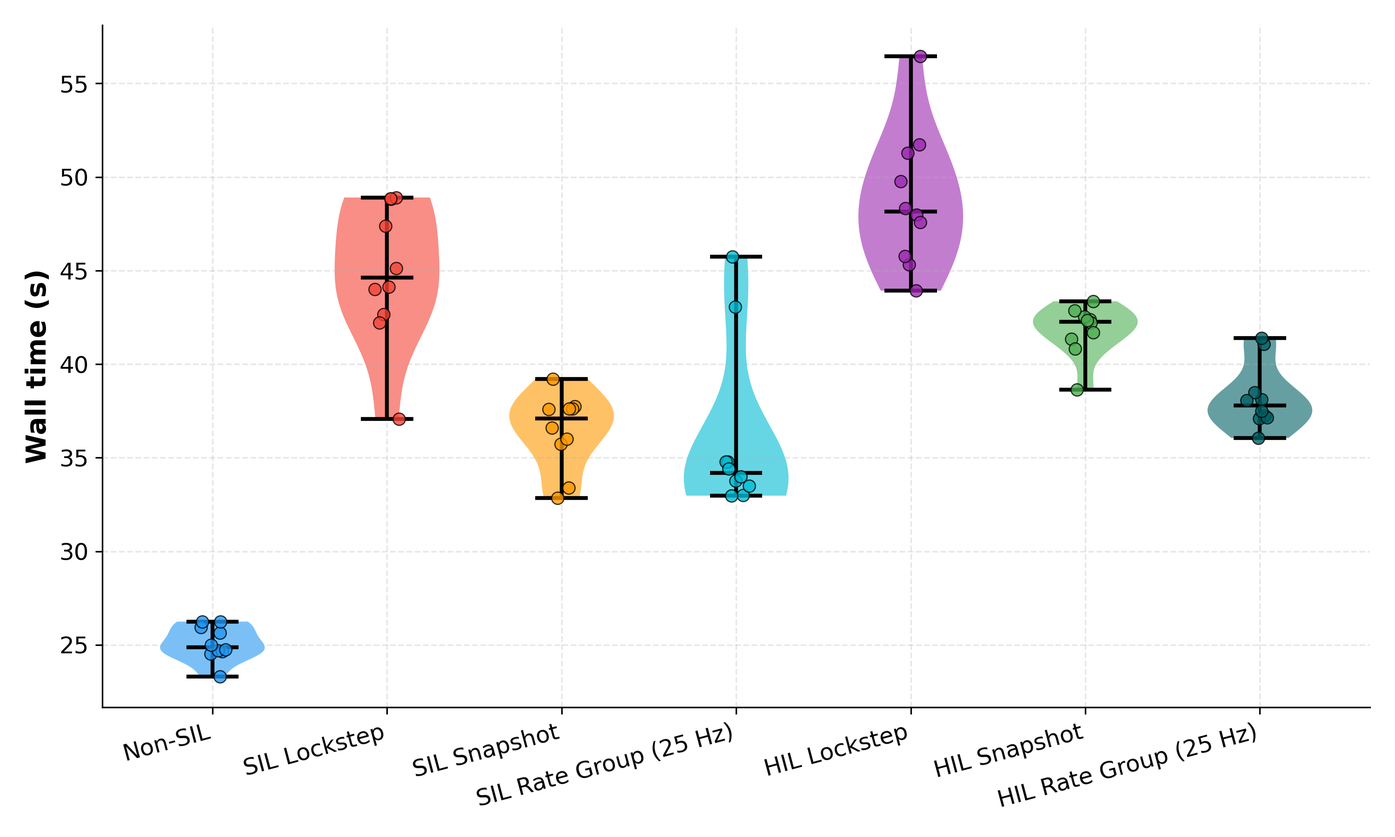
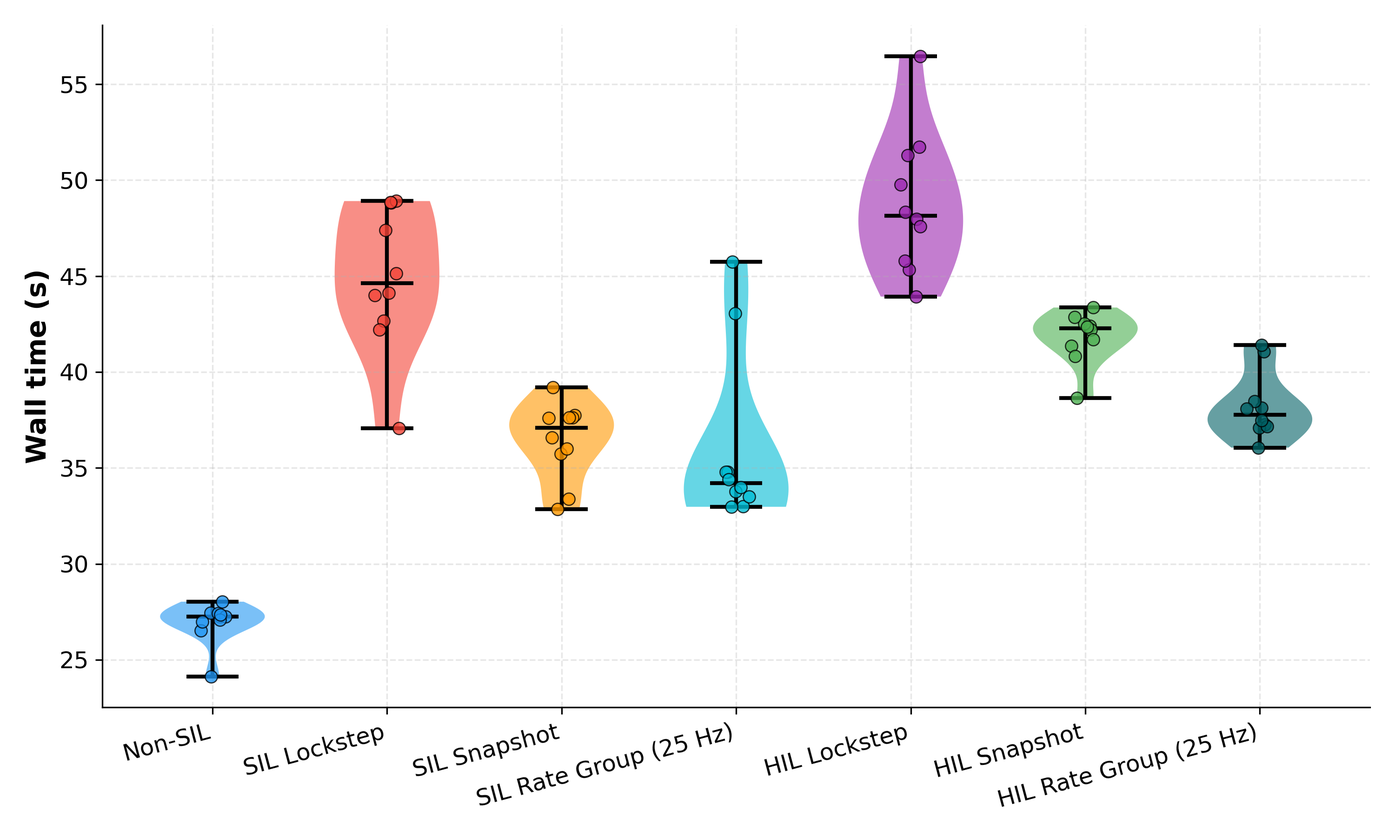
Updates from Overleaf

diff --git a/sections/evaluation.tex b/sections/evaluation.tex
@@ -1,25 +1,4 @@
 \section{Results}\label{s:evaluation}
-\begin{table*}[t]
-\centering
-\caption{Mean $\pm$ one standard deviation over 10 runs per configuration. Apogee time is within 0.04\,s of the baseline (23.49\,s) in every configuration. Rate Group runs at 25\,Hz. Deployment times are simulation time.}
-\label{tab:summary}
-\small
-\begin{tabular}{lrrrr}
-\toprule
-\textbf{Mode} & \textbf{Apogee (m)} & \textbf{Wall time (s)} & \textbf{Drogue (s)} & \textbf{Main (s)} \\
-\midrule
-Non-SIL (baseline) & 3061.94 $\pm$ 0.00 & 27.0 $\pm$ 1.4 & 25.00 $\pm$ 0.00 & 44.60 $\pm$ 0.00 \\
-\midrule
-SIL Lockstep   & 3061.86 $\pm$ 0.04 & 44.9 $\pm$ 3.8 & 25.00 $\pm$ 0.00 & 44.60 $\pm$ 0.00 \\
-SIL Snapshot   & 3065.98 $\pm$ 0.03 & 36.4 $\pm$ 2.0 & 25.00 $\pm$ 0.01 & 44.60 $\pm$ 0.00 \\
-SIL Rate Group & 3065.78 $\pm$ 0.19 & 36.0 $\pm$ 4.5 & 24.84 $\pm$ 0.04 & 45.18 $\pm$ 0.25 \\
-\midrule
-HIL Lockstep   & 3061.87 $\pm$ 0.03 & 48.8 $\pm$ 3.7 & 25.01 $\pm$ 0.00 & 44.64 $\pm$ 0.01 \\
-HIL Snapshot   & 3066.00 $\pm$ 0.06 & 41.8 $\pm$ 1.3 & 25.01 $\pm$ 0.00 & 44.64 $\pm$ 0.01 \\
-HIL Rate Group & 3069.33 $\pm$ 7.46 & 38.2 $\pm$ 1.7 & 24.91 $\pm$ 0.07 & 45.09 $\pm$ 0.28 \\
-\bottomrule
-\end{tabular}
-\end{table*}
 
 \subsection{Coupling Strategies and the One-Step Delay}\label{coupling-results}
 In Experiment~1, Table~\ref{tab:summary} compares each configuration with the standalone baseline apogee of 3061.94\,m. The baseline lands above the 3000\,m target because the PI gains are untuned, as tuning is out of scope (Section~\ref{discussion}). This offset is common to all configurations.
@@ -28,23 +7,25 @@ In Experiment~1, Table~\ref{tab:summary} compares each configuration with the st
 
 Snapshot overshoots by $+4.04$\,m in SIL and $+4.06$\,m in HIL. The overshoot is structural. At callback $n$, the Orchestrator sends the packet and returns the actuation computed at callback $n-1$, without waiting for the FSW. The response to callback $n$ is applied only at $n+1$, so actuation is always one step behind the sensor reading that triggered it. The predicted apogee and the air brake level lag the true state, and the PI controller under-corrects during the coast. The delay equals one callback step, 0.1\,s at 10\,Hz, so the overshoot depends on the callback rate. Section~\ref{callback-sample-rate} shows that it shrinks as the controller callback rate rises.
 
-Rate Group at 25\,Hz overshoots by $+3.84$\,m in SIL and $+7.39$\,m in HIL. The SIL result resembles Snapshot, since both are non-blocking. The variance is higher because the FSW clock is independent of RocketPy's callback, so the buffer may hold an output computed from an older reading. In HIL the standard deviation reaches 7.46\,m against 0.19\,m in SIL, which we attribute to clock mismatch compounding with the Pi's slower CPU and the Ethernet latency. These results support $H_1$: Lockstep shows negligible overshoot, while both non-blocking strategies delay actuation and overshoot consistently in SIL and HIL.
-
-All six differences from the baseline are statistically significant, with $p\le0.012$. The mean apogee error of every strategy stays below the 12\,m threshold in SIL and HIL. The mean hides the spread for HIL Rate Group: with a standard deviation of 7.46\,m over 10 runs, individual runs may exceed 12\,m, so the threshold is met on average, not guaranteed per run.
-
-\emph{Deployment timing.} Lockstep and Snapshot deploy the drogue at $t\approx25.00$\,s and the main parachute at $t\approx44.60$\,s in both SIL and HIL, matching the baseline. Rate Group deploys the drogue earlier (24.84\,s in SIL, 24.91\,s in HIL) and the main parachute later (45.18\,s and 45.09\,s), with standard deviations up to 0.28\,s, consistent with its timing non-determinism.
-
-\emph{Wall-clock time.} Every strategy adds overhead to the 27.0\,s baseline (Fig.~\ref{fig:wall_time_violin}). Lockstep is slowest (44.9\,s SIL, 48.8\,s HIL) because it blocks at every callback. Snapshot (36.4\,s, 41.8\,s) and Rate Group (36.0\,s, 38.2\,s) never block. HIL is slower than SIL for every strategy, from the Ethernet round trip and the Pi's slower CPU, which supports $H_2$. For Rate Group, however, the 2.2\,s gap is smaller than the 4.5\,s run-to-run spread in SIL. In the individual runs, the SIL Rate Group spread comes from two slow runs above 43\,s, while the others sit near 33--35\,s.
+Rate Group at 25\,Hz overshoots by $+3.84$\,m in SIL and $+7.39$\,m in HIL. The SIL result resembles Snapshot, since both are non-blocking. The variance is higher because the FSW clock is independent of RocketPy's callback so the buffer may hold an output computed from an older reading. In HIL, the standard deviation reaches 7.46\,m against 0.19\,m in SIL, which we attribute to clock mismatch compounded by the Pi's slower CPU and Ethernet latency. These results support $H_1$: Lockstep shows negligible overshoot, while both non-blocking strategies delay actuation and overshoot consistently in SIL and HIL.
 
 \begin{figure}[t]
 \centering
 \includegraphics[width=0.92\columnwidth]{figures/results/wall_time_violin.png}
-\caption{Wall-clock time per run for each configuration; dots are individual runs.}
+\caption{Wall-clock time per run for each configuration; dots are individual runs. Non-SIL denotes the standalone RocketPy baseline.}
 \label{fig:wall_time_violin}
 \end{figure}
 
+All six differences from the baseline are statistically significant, with $p\le0.012$. The mean apogee error of every strategy stays below the 12\,m threshold in SIL and HIL. The mean hides the spread for HIL Rate Group: with a standard deviation of 7.46\,m over 10 runs, individual runs may exceed 12\,m, so the threshold is met on average, not guaranteed per run.
+
+\emph{Deployment timing.} Lockstep and Snapshot deploy the drogue parachute at $t\approx25.00$\,s and the main parachute at $t\approx44.60$\,s in both SIL and HIL, matching the baseline. Rate Group deploys the drogue earlier (24.84\,s in SIL, 24.91\,s in HIL) and the main parachute later (45.18\,s and 45.09\,s), with standard deviations up to 0.28\,s, consistent with its timing non-determinism.
+
+\emph{Wall-clock time.} Every strategy adds overhead to the 26.9\,s baseline (Fig.~\ref{fig:wall_time_violin}). Lockstep is slowest (44.9\,s SIL, 48.8\,s HIL) because it blocks at every callback. Snapshot (36.4\,s, 41.8\,s) and Rate Group (36.0\,s, 38.2\,s) never block. HIL is slower than SIL for every strategy, from the Ethernet round trip and the Pi's slower CPU, which supports $H_2$. For Rate Group, however, the 2.2\,s gap is smaller than the 4.5\,s run-to-run spread in SIL. In the individual runs, the SIL Rate Group spread comes from two slow runs above 43\,s, while the others sit near 33--35\,s.
+
+
+
 \subsection{Rate Group Frequency Sweep}\label{freq-sweep}
-In Experiment~2, Figure~\ref{fig:rate-apogee-freq} shows mean apogee against tick frequency, SIL and HIL combined. At 1\,Hz the FSW works on stale data and updates the air brakes once per second, and apogee overshoots by 209.56\,m (3271.5\,$\pm$\,59.0\,m). A higher tick frequency gives the FSW fresher readings, so the lag shrinks and the error falls monotonically: 101.19\,m at 5\,Hz, 27.69\,m at 10\,Hz, 5.61\,m at 25\,Hz and 4.02\,m at 50\,Hz. Gains diminish beyond 25\,Hz, the rate we used in the strategy comparison. The tick timer runs on the wall clock, so these values describe our hosts (Section~\ref{discussion}).
+In Experiment~2, Figure~\ref{fig:rate-apogee-freq} shows mean apogee against tick frequency, SIL and HIL combined. At 1\,Hz, the FSW works on stale data and updates the air brakes once per second, and apogee overshoots by 209.56\,m (3271.5\,$\pm$\,59.0\,m). A higher tick frequency gives the FSW fresher readings, so the lag shrinks and the error falls monotonically: 101.19\,m at 5\,Hz, 27.69\,m at 10\,Hz, 5.61\,m at 25\,Hz and 4.02\,m at 50\,Hz. Gains diminish beyond 25\,Hz, the rate we used in the strategy comparison of Section~\ref{coupling-results}. The tick timer runs on the wall clock, so these values describe our hosts (Section~\ref{discussion}).
 
 \begin{figure}[t]
 \centering
@@ -54,7 +35,7 @@ In Experiment~2, Figure~\ref{fig:rate-apogee-freq} shows mean apogee against tic
 \end{figure}
 
 \subsection{Fault Injection}\label{fault-results}
-In Experiment~3, Figure~\ref{fig:fault_injection} shows all 20 runs, SIL and HIL. At $t=10$\,s the barometer freezes during the coast and the FSW's perceived altitude stays near 1995\,m, about 125\,m below the true altitude at that instant. We attribute that offset to the FSW converting pressure with the ISA model while the simulated atmosphere is not ISA. It does not affect recovery, which depends on pressure changes and not on absolute altitude, and the baseline uses the same conversion. The fallback logic detects the freeze at $t=11.5$\,s and switches to IMU-based detection. True apogee (3069\,m) occurs at $t=23.5$\,s. The drogue deploys at 23.60\,s in SIL and 23.61\,s in HIL, about 0.1\,s after apogee, and the main parachute at 43.60\,s in both, through the 20\,s timeout. This supports $H_3$: the FSW detected the fault and completed the recovery sequence in both SIL and HIL.
+In Experiment~3, Figure~\ref{fig:fault_injection} shows all 20 runs, SIL and HIL. At $t=10$\,s, the barometer freezes during the coast, and the FSW's perceived altitude stays near 1995\,m, about 125\,m below the true altitude at that instant. We attribute that offset to the FSW converting pressure with the ISA model while the simulated atmosphere is not ISA. It does not affect recovery, which depends on pressure changes and not on absolute altitude, and the baseline uses the same conversion. The fallback logic detects the freeze at $t=11.5$\,s and switches to IMU-based detection. True apogee (3069\,m) occurs at $t=23.5$\,s. The drogue deploys at 23.60\,s in SIL and 23.61\,s in HIL, about 0.1\,s after apogee, and the main parachute at 43.60\,s in both, through the 20\,s timeout. This supports $H_3$: the FSW detected the fault and completed the recovery sequence in both SIL and HIL.
 
 \begin{figure}[t]
 \centering

diff --git a/sections/intro.tex b/sections/intro.tex
@@ -1,15 +1,15 @@
 \section{Introduction}\label{s:intro}
-University rocketry teams compete in events such as the European Rocketry Challenge (EuRoC), where they launch high-powered rockets (HPR) to altitudes of up to 9~km with scientific payloads~\cite{rocketpy-ref}. The flight software (FSW) on these rockets is responsible for processing sensor data, detecting flight phases, deploying parachutes and, on advanced vehicles, applying control algorithms such as air brakes or thrust vector control (TVC)~\cite{rocketpy-ref, clary2024georgia-tech-avionics}. Apogee detection, the moment the rocket reaches its peak altitude, is the critical case. An early or missed parachute deployment cannot be corrected in flight, and with no second launch window at annual competitions, a failure can ruin a team's season. Once the rocket leaves the pad, the FSW operates autonomously, under conditions that cannot be reproduced.
+University rocketry teams compete in events such as the European Rocketry Challenge (EuRoC), where they launch high-powered rockets (HPR) to altitudes of up to 9~km with scientific payloads~\cite{rocketpy-ref}. The flight software (FSW) on these rockets is responsible for processing sensor data, detecting flight phases, deploying parachutes and, on advanced rockets, applying control algorithms such as air brakes or thrust vector control (TVC)~\cite{rocketpy-ref, clary2024georgia-tech-avionics}. Apogee detection, the moment the rocket reaches its peak altitude, is the critical case. An early or missed parachute deployment cannot be corrected in flight, and with no second launch window at annual competitions, a failure can ruin a team's season. Once the rocket leaves the pad, the FSW operates autonomously, under conditions that cannot be reproduced.
 
-Live launches are too expensive, uncontrolled and irreversible to serve as software tests~\cite{coopmans-sil-hil-verification-uav, kiesbye2019-moveII-cubsat}. Simulation-based verification avoids this by running the FSW in a closed feedback loop with a simulated model of the vehicle and its environment, the \emph{plant}, either on a host computer (software-in-the-loop, SIL) or on the target hardware (hardware-in-the-loop, HIL). The approach is well established in UAV and small-spacecraft programmes~\cite{santos-hil-uav-autopilot, bittar-guidance-sil-uav-xplane-simulink, kiesbye2019-moveII-cubsat}, where institutions and companies have built dedicated HIL setups and mature SIL pipelines~\cite{ulbig2019flightsimulatorbasedverification}. For high-powered rocketry, no equivalent infrastructure exists. Student teams, with volunteer labour, small budgets and single-use rockets, rely on open-source tools such as OpenRocket~\cite{niskanen2013openrocket} and RocketPy~\cite{rocketpy-ref} for trajectory prediction and modular frameworks such as F Prime~\cite{bocchino2018fprime} for flight software.
+Live launches are too expensive, uncontrolled and irreversible to serve as software tests~\cite{coopmans-sil-hil-verification-uav, kiesbye2019-moveII-cubsat}. Simulation-based verification avoids this by running the FSW in a closed feedback loop with a simulated model of the vehicle and its environment, the \emph{plant}, either on a host computer (software-in-the-loop, SIL) or on the target hardware (hardware-in-the-loop, HIL). The approach is well established in Unmanned Aerial Vehicle (UAV) and small-spacecraft programmes~\cite{santos-hil-uav-autopilot, bittar-guidance-sil-uav-xplane-simulink, kiesbye2019-moveII-cubsat}, where institutions and companies have built dedicated HIL setups and mature SIL pipelines~\cite{ulbig2019flightsimulatorbasedverification}. For high-powered rocketry, no equivalent infrastructure exists. Student teams, with volunteer labour, small budgets and single-use rockets, rely on open-source tools such as OpenRocket~\cite{niskanen2013openrocket} and RocketPy~\cite{rocketpy-ref} for trajectory prediction and modular frameworks such as F Prime~\cite{bocchino2018fprime} for flight software.
 
 These tools are mature in their domains, but the rocket simulators among them are open-loop. Simulators such as OpenRocket, the Cambridge Rocketry Simulator and RocketPy~\cite{niskanen2013openrocket, eerland2017cambridgerocketry, rocketpy-ref} compute a trajectory offline from geometry, thrust curve and environment. They neither feed live sensor readings to running software nor accept its control outputs. Teams are left with unit tests and open-loop replay, which cannot show how the FSW's decisions change the flight and offer no way to inject sensor faults, so failure-recovery logic stays untested until launch. To our knowledge, no framework couples a rocketry trajectory simulator with flight software in a closed loop. The problem we tackle is how to test rocket FSW against a physics-based trajectory in a closed loop before launch.
 
-This paper presents RITL (Rocket in the Loop), which closes that loop. We instantiate it with RocketPy and F Prime, coupled through a Python Orchestrator that keeps the interface independent of both, so either side can be replaced. RocketPy is a continuous-time simulator and F Prime is discrete and event-driven, so the coupling is a heterogeneous co-simulation problem~\cite{gomes2017cosimulation}. The Orchestrator supports three coupling strategies that trade synchronisation against timing realism and wall-clock cost, runs the same FSW in SIL and HIL, and injects faults inside the loop. We investigate three research questions (RQ):
+This paper presents Rocket in the Loop (RITL), which closes that loop. We instantiate it with RocketPy and F Prime, coupled through a Python Orchestrator that keeps the interface independent of both, so either side can be replaced. RocketPy is a continuous-time simulator, and F Prime is discrete and event-driven, so the coupling is a heterogeneous co-simulation problem~\cite{gomes2017cosimulation}. The Orchestrator supports three coupling strategies that trade synchronisation against timing realism and wall-clock cost, runs the same FSW in SIL and HIL, and can inject faults inside the loop. We investigate three research questions (RQ):
 \begin{itemize}
 \item \textbf{RQ1:} How can a closed-loop simulation environment for HPR flight software be designed and implemented using RocketPy and F Prime?
 \item \textbf{RQ2:} How do the coupling strategy and the choice of SIL or HIL affect apogee accuracy, parachute deployment timing and wall-clock cost?
-\item \textbf{RQ3:} Can the framework inject a sensor fault during flight, and does the FSW recover so that parachute deployment still succeeds?
+\item \textbf{RQ3:} Can the framework inject a sensor fault during flight, and can the fault recovery logic be specified and verified using the framework?
 \end{itemize}
 
 RQ1 is answered by a working implementation: RocketPy and F Prime exchange sensor and actuation data without modifying RocketPy's solver, and the same FSW runs in SIL and HIL with a recompilation only. We answer RQ2 and RQ3 with controlled experiments that compare each configuration against a standalone RocketPy baseline. RQ2 needs an accuracy criterion, so we take an apogee error below 12\,m as the acceptance threshold for pre-flight verification. It comes from the Camões rocket configuration used throughout~\cite{rocketpy_camoes}. Camões, built by the Rocket Experiment Division, reached 3015\,m at EuRoC 2023, while the standalone RocketPy prediction was 3003\,m, 12\,m lower. A coupling error below that prediction uncertainty does not reduce the value of the simulation over RocketPy alone. RQ3 matters because a sensor fault can prevent correct apogee detection and parachute deployment, an irreversible failure on a live launch.
@@ -18,7 +18,7 @@ This paper makes four contributions:
 \begin{itemize}
 \item \textbf{C1:} RITL, to our knowledge the first framework to close the loop between RocketPy and a flight software framework, F Prime, running the same FSW in SIL and HIL.
 \item \textbf{C2:} Three coupling strategies for a simulator that offers only a synchronous callback, and an analysis showing that non-blocking coupling introduces an actuation delay of at least one step by design.
-\item \textbf{C3:} A controlled evaluation of their accuracy, deployment timing and wall-clock cost in SIL and HIL.
+\item \textbf{C3:} A controlled evaluation of the strategies' accuracy, deployment timing and wall-clock cost in SIL and HIL.
 \item \textbf{C4:} In-loop fault injection, shown with a barometer freeze that affects recovery timing and the trajectory.
 \end{itemize}
 Practically, teams can test the flight software they fly, on a laptop or on target hardware, before launch. Scientifically, the results quantify what each coupling choice costs in accuracy, timing and run time. The artefacts are open (Section~\ref{s:conclusion}).

diff --git a/sections/background.tex b/sections/background.tex
@@ -6,9 +6,9 @@ An HPR flight has three phases: powered flight, an unpowered coast to apogee, an
 F Prime is JPL's open-source flight software framework for small embedded systems, flown on the ASTERIA CubeSat and the Ingenuity Mars Helicopter~\cite{canham2022fprime-mars-helicopter, bocchino2018fprime, bocchino2022fpp}. Applications are built from \emph{components} that communicate only through typed \emph{ports}, and a \emph{topology} wires component instances together at deployment time. A component is either \emph{passive}, running on its caller's thread, or \emph{active}, with its own thread and message queue. This distinction decides when the FSW executes (Section~\ref{closed-loop-sim-env}). Because topologies are defined separately from components, we build a flight topology and a simulation topology that share all flight-logic components and differ only in the sensor components.
 
 \subsection{RocketPy}\label{background-rocketpy}
-RocketPy~\cite{rocketpy-ref} is an open-source 6-degree-of-freedom trajectory simulator that advances the rocket state by numerical integration. It also offers a controller interface: one callback can be registered per controlled component, such as air brakes or parachutes. RocketPy calls it at a configurable callback rate, passes it the simulation state and uses the returned control output~\cite{soares2022rocketpy, rocketpy-docs-airbrakes}. By default, the integrator may step past a scheduled callback time (\texttt{time\_overshoot}). Disabling this makes it stop at every callback, so execution becomes strictly discrete. The solver's own step size is set separately, through \texttt{min\_time\_step} and \texttt{max\_time\_step}. RocketPy also ships accelerometer, gyroscope and barometer models, so an FSW can consume sensor-like readings instead of ground-truth state.
+RocketPy~\cite{rocketpy-ref} is an open-source 6-degree-of-freedom trajectory simulator that advances the rocket state by numerical integration. It also offers a controller interface: one callback can be registered per controlled component, such as air brakes or parachutes. RocketPy calls it at a configurable callback rate, passes it the simulation state and uses the returned control output~\cite{soares2022rocketpy, rocketpy-docs-airbrakes}. By default, the integrator may step past a scheduled callback time via a \texttt{time\_overshoot} parameter. Disabling this makes it stop at every callback, so execution becomes strictly discrete. The solver's own step size is set separately, through \texttt{min\_time\_step} and \texttt{max\_time\_step}. RocketPy also ships with accelerometer, gyroscope and barometer models, so an FSW can consume sensor-like readings instead of ground-truth state.
 
 \subsection{Closed-Loop Verification and Co-Simulation}\label{background-cosim}
-In closed-loop verification, the FSW and a plant model exchange sensor readings and actuation commands~\cite{ulbig2019flightsimulatorbasedverification}. How faithful the result is depends on how closely the plant matches the real vehicle and on where the software runs~\cite{ulbig2019flightsimulatorbasedverification, kiesbye2019-moveII-cubsat}. SIL runs both on one host under common time. It is fast to set up and suits early development, where the goal is to validate software logic. HIL runs the FSW on its target hardware while the plant stays on a host. It adds real timing, latency and resource limits, and so confirms that the software behaves correctly under flight-hardware constraints~\cite{kiesbye2019-moveII-cubsat, santos-hil-uav-autopilot}.
+In closed-loop verification, the FSW and a plant model exchange sensor readings and actuation commands~\cite{ulbig2019flightsimulatorbasedverification}. The accuracy of the results depends on how closely the plant matches the real rocket and where the software runs~\cite{ulbig2019flightsimulatorbasedverification, kiesbye2019-moveII-cubsat}. SIL runs both on one host under common time. It is fast to set up and suits early development, where the goal is to validate software logic. HIL runs the FSW on its target hardware while the plant stays on a host. It adds real timing, latency, and resource limits, and so confirms that the software behaves correctly under flight-hardware constraints~\cite{kiesbye2019-moveII-cubsat, santos-hil-uav-autopilot}.
 
 Co-simulation couples independent simulators, each treated as a black box that advances its own state and exchanges inputs and outputs only at communication points~\cite{gomes2017cosimulation}. A coordinating algorithm, the \emph{orchestrator}, decides when each simulator advances and with which inputs~\cite{gomes2017cosimulation}. A simulator may be continuous-time, integrating differential equations between those points, or discrete event-driven, advancing only when triggered by an event~\cite{gomes2017cosimulation}. Section~\ref{closed-loop-sim-env} describes how RITL schedules the exchange.

diff --git a/sections/design.tex b/sections/design.tex
@@ -1,9 +1,9 @@
 \section{Experimental Design}\label{experiment-design}
-We evaluate RITL with controlled experiments. In each one we manipulate a few factors, hold the rest of the setup fixed and compare every configuration against a control, the standalone RocketPy baseline described below. Table~\ref{tab:experiments} summarises the four experiments.
+We evaluate RITL with controlled experiments. In each one, we manipulate a few factors, hold the rest of the setup fixed and compare every configuration against a control: the standalone RocketPy baseline described below. Table~\ref{tab:experiments} summarises the four experiments.
 
 \begin{table}[t]
 \centering
-\caption{The experiments and the independent variables each varies. Each configuration runs 10 times, except Experiment~4b, which runs once per solver step.}
+\caption{The experiments and the independent variables each vary. Each configuration runs 10 times, except Experiment~4b, which runs once per solver step.}
 \label{tab:experiments}
 \small
 \begin{tabular}{@{}cp{1.7in}p{0.95in}@{}}
@@ -26,4 +26,26 @@ We evaluate RITL with controlled experiments. In each one we manipulate a few fa
 
 \textbf{Procedure.} We automate all runs with the experiment runner of Karsten et al.~\cite{karsten2026experiment-runner}. Experiment~1 runs Rate Group at 25\,Hz, chosen from Experiment~2, where accuracy gains diminish beyond that frequency. Experiment~3 uses Snapshot, a middle ground between the blocking Lockstep and the clock-independent Rate Group, and freezes the barometer during the coast after burnout and before apogee. Experiment~4a excludes Rate Group, whose FSW rate is set by the tick frequency. Experiment~4b runs the baseline and Snapshot in SIL at solver steps of 0.0001, 0.001, 0.005 and 0.01\,s, one run each, because it is exploratory and the finest step is expensive. Wall-clock time is measured around the RocketPy run, from before the flight is built until it returns, so it excludes FSW start-up, and runs are not paced to real time. Runs execute in a fixed order, one pass over all configurations per repetition, with a 3\,s pause; the FSW and Orchestrator are restarted for every run. SIL runs on a laptop (Intel Core Ultra 7 155H, 32\,GiB, Pop!\_OS 22.04). HIL runs on a Raspberry Pi 4B (Cortex-A72, 8\,GiB, Raspberry Pi OS) connected to the host by a direct Ethernet link.
 
-\textbf{Analysis.} We compare each configuration with the baseline using a two-sample Welch $t$-test at $\alpha=0.05$, which does not assume equal variances: the baseline is deterministic, while HIL Rate Group varies by several metres. Because variance is low in most conditions, even sub-metre differences are statistically significant. We therefore judge accuracy by effect size against the 12\,m threshold and report significance alongside it. Since the baseline has zero variance, each test reduces to a one-sample test against its value. We apply no multiple-comparison correction, and we judge $H_2$ from mean wall-clock time and spread without a separate SIL--HIL test.
+\begin{table*}[t]
+\centering
+\caption{Mean $\pm$ one standard deviation over 10 runs per configuration. Apogee time is within 0.04\,s of the baseline (23.49\,s) in every configuration. Rate Group runs at 25\,Hz.}
+\label{tab:summary}
+\small
+\begin{tabular}{lcccc}
+\toprule
+\textbf{Mode} & \textbf{Apogee (m)} & \textbf{Wall time (s)} & \textbf{Drogue Parachute (s)} & \textbf{Main Parachute (s)} \\
+\midrule
+Baseline & 3061.94 $\pm$ 0.00 & 26.9 $\pm$ 1.1 & 25.00 $\pm$ 0.00 & 44.60 $\pm$ 0.00 \\
+\midrule
+SIL Lockstep   & 3061.86 $\pm$ 0.04 & 44.9 $\pm$ 3.8 & 25.00 $\pm$ 0.00 & 44.60 $\pm$ 0.00 \\
+SIL Snapshot   & 3065.98 $\pm$ 0.03 & 36.4 $\pm$ 2.0 & 25.00 $\pm$ 0.01 & 44.60 $\pm$ 0.00 \\
+SIL Rate Group & 3065.78 $\pm$ 0.19 & 36.0 $\pm$ 4.5 & 24.84 $\pm$ 0.04 & 45.18 $\pm$ 0.25 \\
+\midrule
+HIL Lockstep   & 3061.87 $\pm$ 0.03 & 48.8 $\pm$ 3.7 & 25.01 $\pm$ 0.00 & 44.64 $\pm$ 0.01 \\
+HIL Snapshot   & 3066.00 $\pm$ 0.06 & 41.8 $\pm$ 1.3 & 25.01 $\pm$ 0.00 & 44.64 $\pm$ 0.01 \\
+HIL Rate Group & 3069.33 $\pm$ 7.46 & 38.2 $\pm$ 1.7 & 24.91 $\pm$ 0.07 & 45.09 $\pm$ 0.28 \\
+\bottomrule
+\end{tabular}
+\end{table*}
+
+\textbf{Analysis.} We compare each configuration with the baseline using a two-sample Welch $t$-test at $\alpha=0.05$, which does not assume equal variances: the baseline is deterministic, while HIL Rate Group varies by several metres. Because variance is low in most conditions, even sub-metre differences are statistically significant. We therefore judge accuracy by distances staying below the 12\,m threshold and report significance alongside it. Since the baseline has zero variance, each test reduces to a one-sample test against its value. We apply no multiple-comparison correction, and we judge $H_2$ from mean wall-clock time and spread without a separate SIL--HIL test.

diff --git a/sections/abstract.tex b/sections/abstract.tex
@@ -1,1 +1,4 @@
-Student rocketry teams fly software responsible for detecting apogee, deploying parachutes and applying control algorithms during flight, yet they lack the closed-loop software/hardware-in-the-loop (SIL/HIL) testing that UAV and spacecraft programmes take for granted. Existing rocket simulators such as RocketPy are open-loop. We present RITL (Rocket in the Loop), a Python Orchestrator that couples RocketPy, a continuous-time trajectory simulator, with the discrete, event-driven F Prime flight software framework in a live feedback loop. RITL offers three coupling strategies, Lockstep, Snapshot and Rate Group, runs in SIL and in HIL on a Raspberry Pi 4, and injects sensor faults inside the loop. In controlled experiments on the Camões EuRoC 2023 rocket, with 10 runs per configuration, Lockstep matches a standalone RocketPy baseline within 0.08\,m. Snapshot and Rate Group add an actuation delay and overshoot apogee on average by about 4\,m and 3.84--7.39\,m respectively. All mean errors stay below our 12\,m acceptance threshold, although HIL Rate Group has a run-to-run standard deviation of 7.46\,m. After an injected barometer freeze, the flight software detected the fault and deployed the drogue parachute within 0.1\,s of true apogee using an inertial measurement unit (IMU) fallback. To our knowledge, RITL is the first framework to couple RocketPy and F Prime, letting teams test the flight software they actually fly.
+Student rocketry teams fly software responsible for detecting apogee, deploying parachutes and applying control algorithms during flight, yet they lack the closed-loop software/hardware-in-the-loop (SIL/HIL) testing that Unmanned Aerial Vehicle and spacecraft programs take for granted. As a result, High-powered Rocket flight software can only be tested in expensive live launches.
+% Existing rocket simulators such as RocketPy are open-loop. 
+In response, we developed Rocket in the Loop (RITL), a Python Orchestrator that couples RocketPy, an open-loop continuous-time trajectory simulator, with the discrete, event-driven F Prime flight software framework in a live feedback loop, ultimately allowing teams to test the flight software they actually fly. It offers three coupling strategies, Lockstep, Snapshot and Rate Group, runs in SIL and in HIL on a Raspberry Pi 4, and can inject sensor faults inside the loop. We compared the three coupling strategies in controlled experiments on the Camões EuRoC 2023 rocket by how closely their apogee matches a standalone RocketPy baseline. We observed that Lockstep does so within 0.08\,m, while Snapshot and Rate Group add an actuation delay and overshoot by about 4–7\,m on average. All mean errors stay below our 12\,m acceptance threshold, although HIL Rate Group has a run-to-run standard deviation of 7.46\,m. After an injected barometer freeze, the flight software detected the fault and deployed the drogue parachute within 0.1\,s of true apogee using an inertial measurement unit fallback. 
+% To our knowledge, RITL is the first framework to couple RocketPy and F Prime, allowing teams to test the flight software that they actually fly.

diff --git a/sections/methodology.tex b/sections/methodology.tex
@@ -10,7 +10,7 @@ Co-simulation normally assumes simulators that an orchestrator can advance and t
 \begin{minipage}[b]{0.50\textwidth}\centering
 \includegraphics[width=0.8\linewidth]{figures/ritl_fsw_sensors.pdf}\\[2pt]{\small (c)}
 \end{minipage}
-\caption{The RITL architecture. (a) RocketPy, the Orchestrator and the F Prime FSW. (b) The sensor-driven FSW topology (Lockstep, Snapshot). (c) The clock-driven topology (Rate Group). Shaded components are active, white are passive.}
+\caption{The RITL architecture. (a) RocketPy, the Orchestrator and the F Prime FSW. (b) The sensor-driven FSW topology (Lockstep, Snapshot). (c) The clock-driven topology (Rate Group). Shaded components are active, white are passive. Blue arrows show the sensor path and red arrows the actuation path.}
 \label{fig:architecture-diagram}
 \end{figure*}
 \subsection{Architecture}\label{framework-arch}
@@ -18,7 +18,7 @@ RITL places a Python Orchestrator between RocketPy and the F Prime FSW (Fig.~\re
 
 The Orchestrator is also a natural place to intercept sensor data: a \texttt{FaultInjector} module alters outgoing sensor packets before they reach the FSW. We evaluate one fault, a barometer freeze, in which the pressure reading is captured and held constant in all following packets. Neither RocketPy nor the FSW needs to change.
 
-\emph{Communication.} RocketPy and the Orchestrator communicate over ZeroMQ, which is language-agnostic, keeps SIL overhead low over loopback on one host and allows separate hosts. The Orchestrator talks to F Prime over TCP. TCP gives the reliable, ordered delivery that Lockstep requires, and the same code runs over loopback in SIL and over a physical Ethernet link in HIL. The cost is TCP's connection overhead.
+\emph{Communication.} RocketPy and the Orchestrator communicate over ZeroMQ, which is language-agnostic, keeps SIL overhead low over loopback on one host and allows separate hosts. The Orchestrator talks to F Prime over TCP. TCP gives the reliable, ordered delivery that the Lockstep coupling strategy requires, and the same code runs over loopback in SIL and over a physical Ethernet link in HIL. The cost is TCP's connection overhead.
 
 \emph{Data flow.} At each callback, RocketPy's accelerometer, gyroscope and barometer models produce readings. They travel with the simulation time $t$ through the Orchestrator to F Prime, where the FSW receives them as if they came from physical sensors. The return path is more constrained, because the callback needs a synchronous return value. The Orchestrator keeps an \emph{actuation buffer} holding the last output received from F Prime: an air brake level in $[0,1]$ and two deployment flags for the drogue and main parachutes. How the buffer is used at callback time depends on the coupling strategy (Section~\ref{coupling-strategies}).
 

diff --git a/sections/related.tex b/sections/related.tex
@@ -7,7 +7,7 @@ For HPR, the only prior work we found that connects RocketPy to embedded hardwar
 
 \begin{table}[t]
 \centering
-\caption{Closed-loop verification work discussed above.}
+\caption{Overview of related simulation-based testing approaches.}
 \label{tab:related}
 \footnotesize
 \setlength{\tabcolsep}{3pt}
@@ -15,13 +15,13 @@ For HPR, the only prior work we found that connects RocketPy to embedded hardwar
 \toprule
 \textbf{Work (domain)} & \textbf{Simulator $\rightarrow$ software under test} & \textbf{Mode} & \textbf{Loop} \\
 \midrule
-Santos et al. (UAV) & X-Plane $\rightarrow$ microcontroller autopilot & HIL & closed \\
-Bittar et al. (UAV) & X-Plane $\rightarrow$ Simulink controllers & SIL & closed \\
-Coopmans et al. (UAV) & JSBSim $\rightarrow$ Paparazzi & SIL, HIL & closed \\
-Cols-Margenet et al. (spacecraft) & Basilisk $\rightarrow$ Raspberry Pi & HIL & closed \\
-Kiesbye et al. (CubeSat) & Simulink $\rightarrow$ MOVE-II flight code & SIL, HIL & closed \\
-Netzel et al. (rocket) & RocketPy replay $\rightarrow$ apogee detection & HIL & open \\
-\textbf{RITL (rocket)} & RocketPy $\leftrightarrow$ F Prime & SIL, HIL & closed \\
+Santos et al. \cite{santos-hil-uav-autopilot} (UAV) & X-Plane $\rightarrow$ microcontroller autopilot & HIL & closed \\
+Bittar et al. \cite{bittar-guidance-sil-uav-xplane-simulink} (UAV) & X-Plane $\rightarrow$ Simulink controllers & SIL & closed \\
+Coopmans et al. \cite{coopmans-sil-hil-verification-uav} (UAV) & JSBSim $\rightarrow$ Paparazzi & SIL, HIL & closed \\
+Cols-Margenet et al. \cite{colsmargenet2017modular} (Spacecraft) & Basilisk $\rightarrow$ Raspberry Pi & HIL & closed \\
+Kiesbye et al. \cite{kiesbye2019-moveII-cubsat} (CubeSat) & Simulink $\rightarrow$ MOVE-II flight code & SIL, HIL & closed \\
+Netzel et al. \cite{netzel-rocketpy-hil} (Rocket) & RocketPy replay $\rightarrow$ apogee detection & HIL & open \\
+\textbf{RITL (Rocket)} & RocketPy $\leftrightarrow$ F Prime & SIL, HIL & closed \\
 \bottomrule
 \end{tabular}
 \end{table}

diff --git a/conference_101719.tex b/conference_101719.tex
@@ -6,6 +6,8 @@
 \usepackage{xcolor}
 \usepackage{booktabs}
 \usepackage{url}
+\usepackage{hyperref}
+
 \def\UrlBreaks{\do\/\do\-\do\_}
 \Urlmuskip=0mu plus 1mu
 
@@ -13,17 +15,15 @@
 
 \title{Rocket in the Loop: SIL and HIL Verification Testing for High-Powered Rocket Flight Software}
 
-\author{
-\IEEEauthorblockN{Kris Saliba}
-\IEEEauthorblockA{\textit{\textcolor{red}{[department, organisation]}} \\
-\textcolor{red}{[City, Country]} \\
-\textcolor{red}{[email or ORCID]}}
+\author{\IEEEauthorblockN{Kris Saliba}
+\IEEEauthorblockA{\textit{Vrije Universiteit Amsterdam} \\
+Amsterdam, the Netherlands \\
+k.saliba@student.vu.nl}
 \and
-\IEEEauthorblockN{Ilias 
-Gerostathopoulos}
-\IEEEauthorblockA{\textit{\textcolor{red}{[department, organisation]}} \\
-\textcolor{red}{[City, Country]} \\
-\textcolor{red}{[email or ORCID]}}
+\IEEEauthorblockN{Ilias Gerostathopoulos}
+\IEEEauthorblockA{\textit{Vrije Universiteit Amsterdam} \\
+Amsterdam, the Netherlands \\
+i.g.gerostathopoulos@vu.nl}
 }
 \maketitle
 

diff --git a/sections/conclusion.tex b/sections/conclusion.tex
@@ -3,4 +3,4 @@ We presented RITL, a closed-loop framework that couples RocketPy and F Prime thr
 
 Future work includes evaluating UDP transport, fallback logic for the air brakes, more fault types and rockets, and a bare-metal or real-time operating system target. An FMI wrapper would decouple RITL from RocketPy, so any FMI-compliant simulator could be coupled to F Prime through the Orchestrator.
 
-\emph{Availability.} The framework is at \url{github.com/Krissal1234/rocket_in_the_loop}, the F Prime deployment at \url{github.com/Krissal1234/ritl-fsw}, and the raw data at \url{drive.google.com/drive/folders/1BfGlMNKu4F09ubLUr2foTuLzN3MWnQhx}.
+\emph{Availability.} The F Prime deployment and the results of the study are archived on Zenodo~\cite{kris_saliba_2026_24056809}; the RITL software framework is open-source and available on GitHub at \url{https://github.com/Krissal1234/rocket_in_the_loop}.
